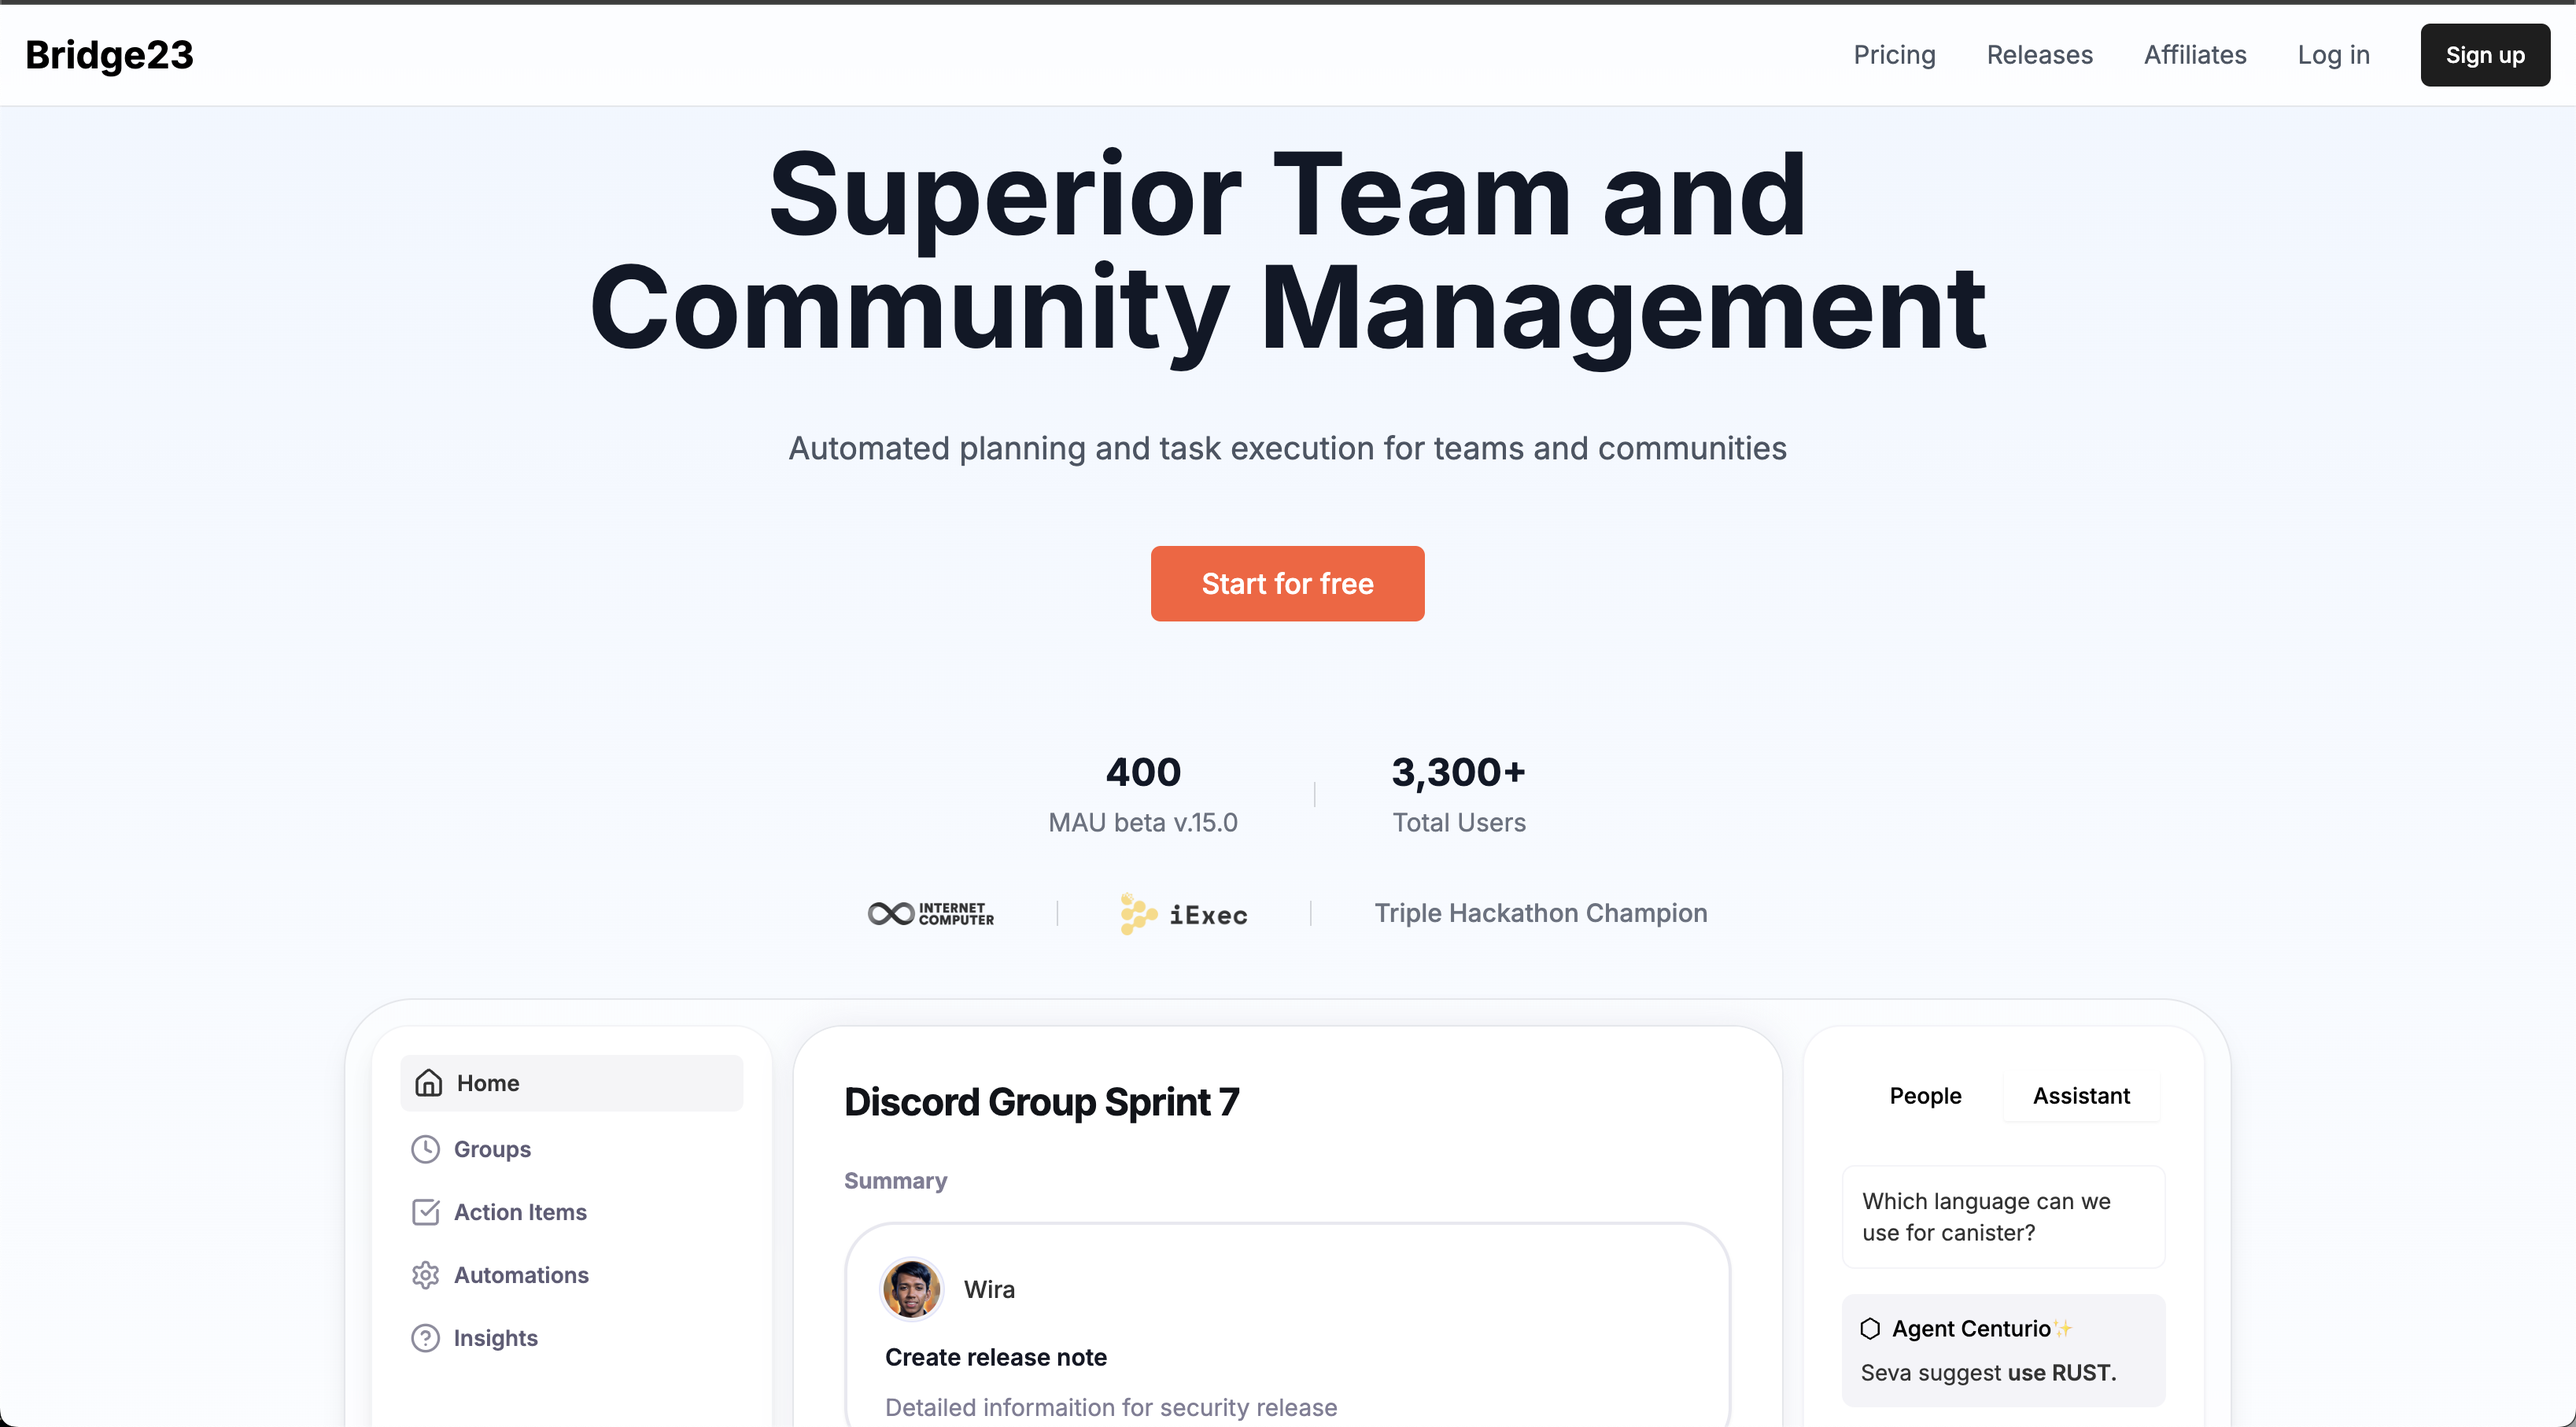
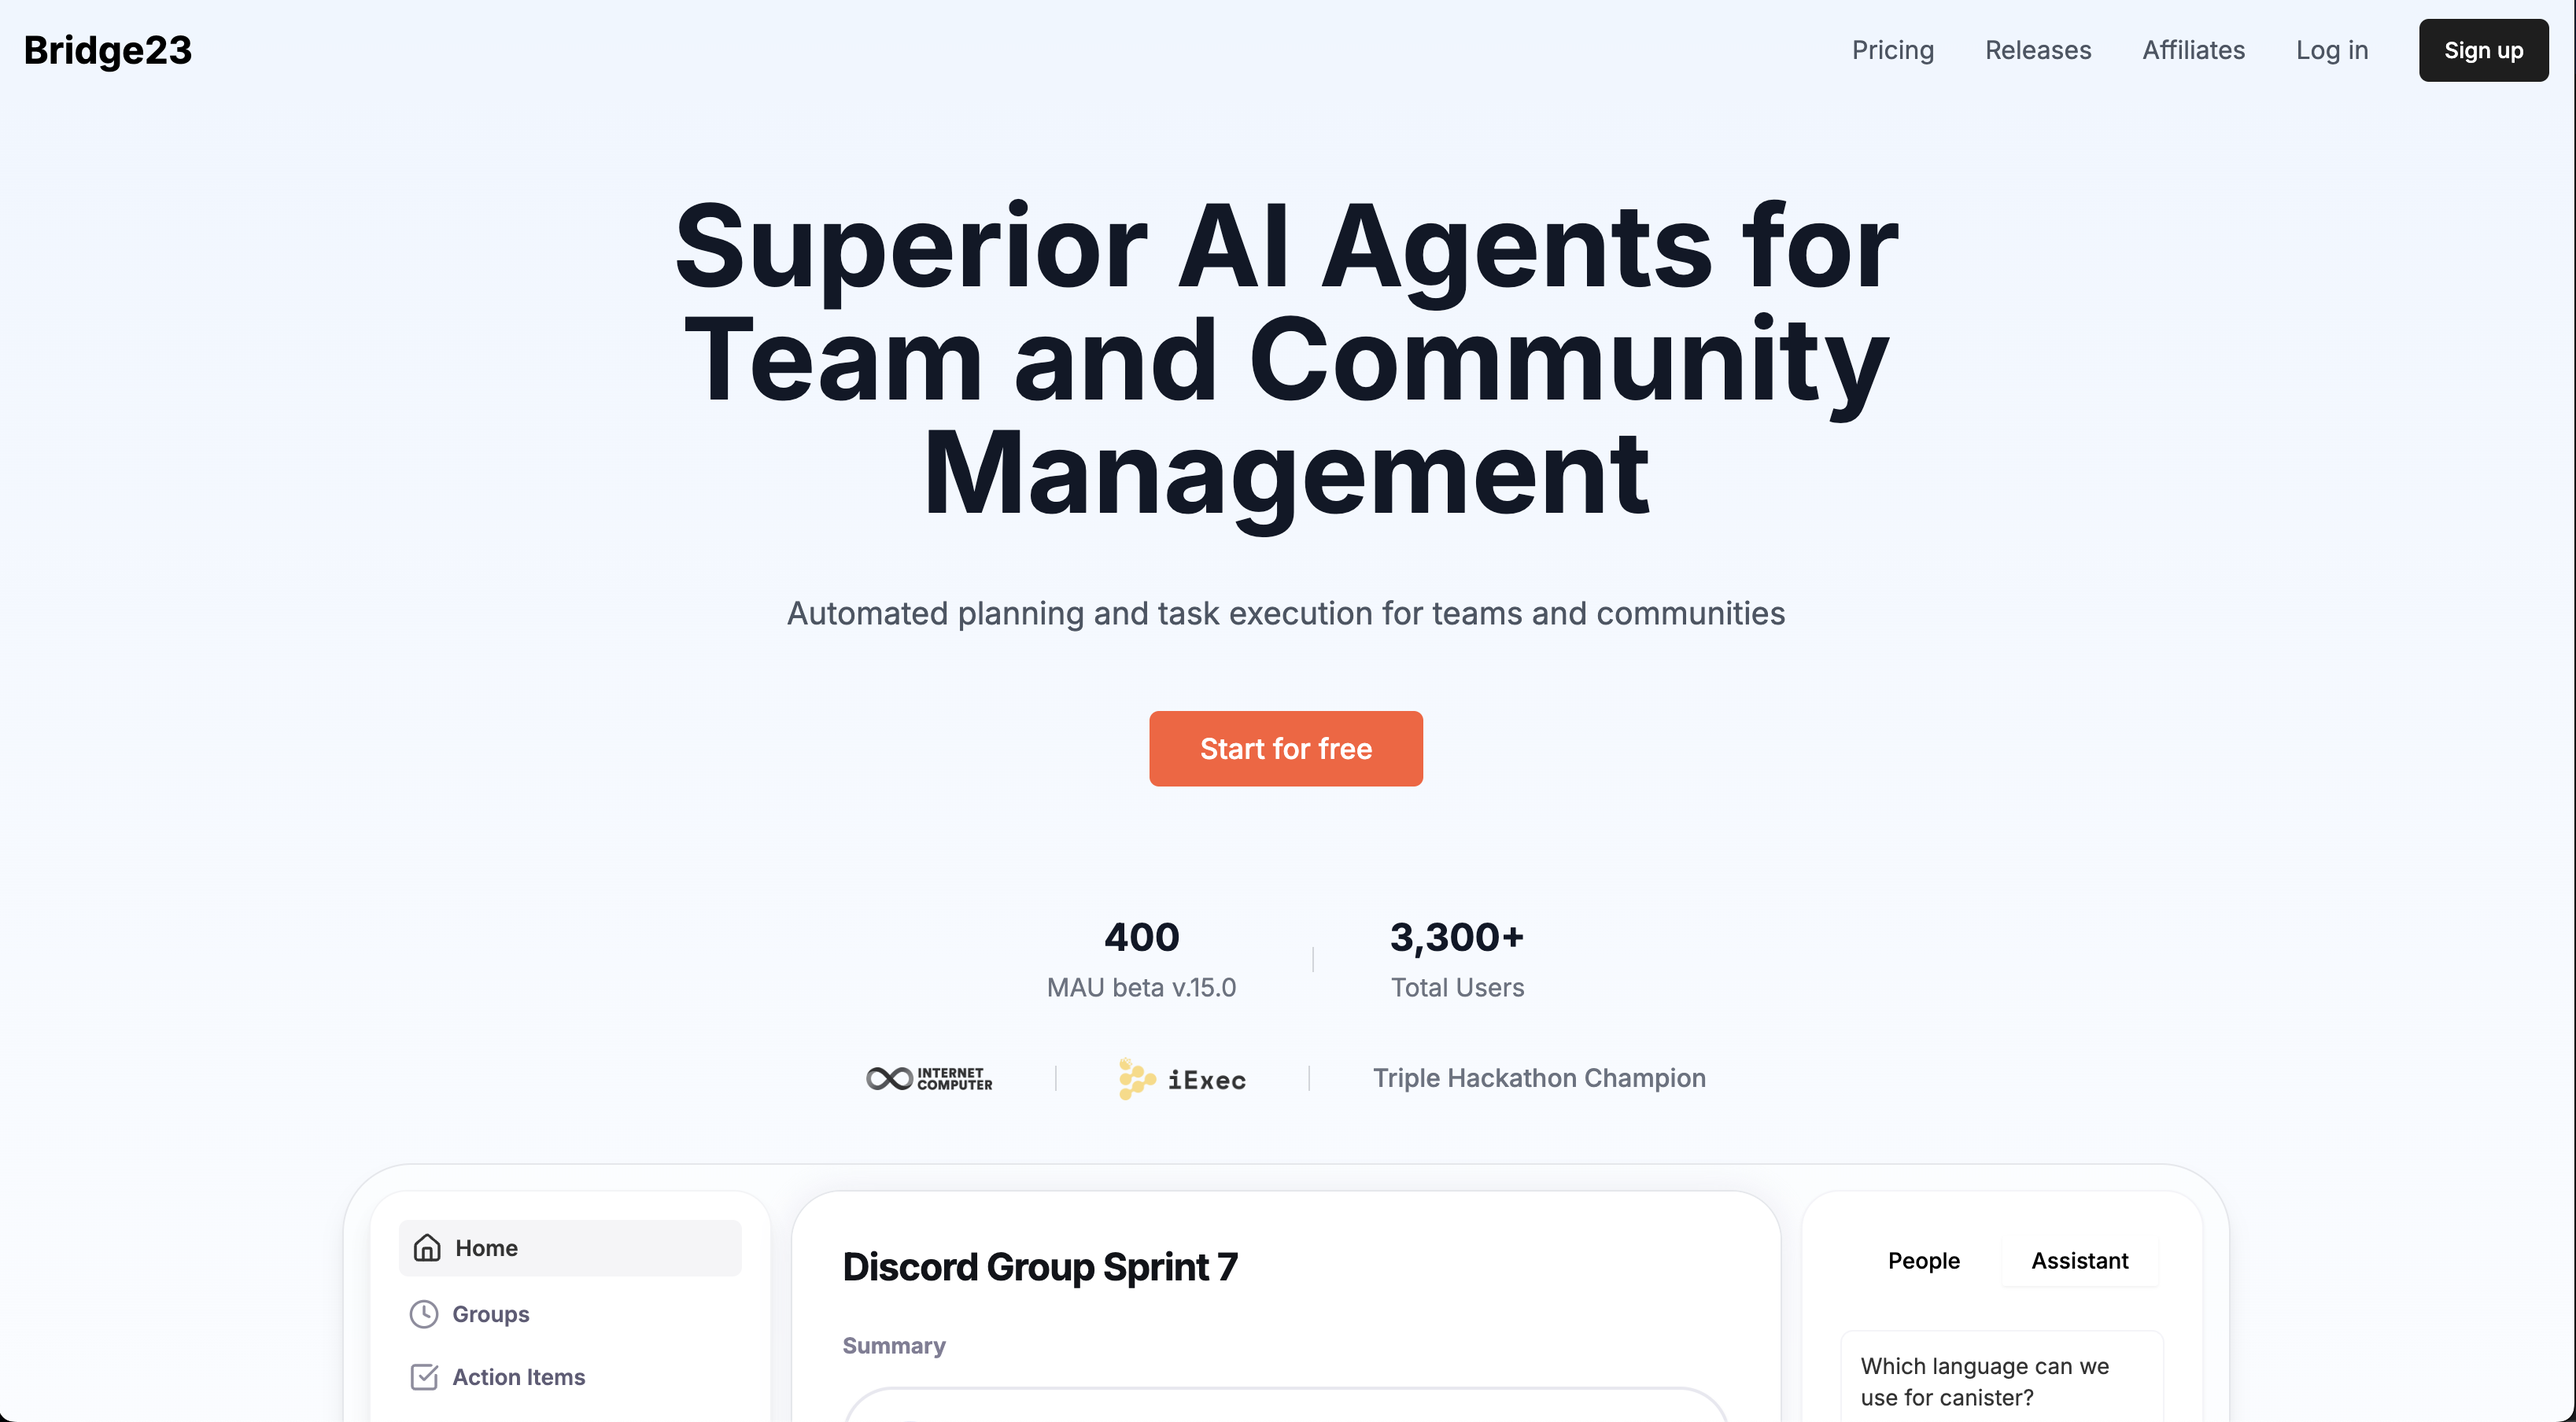
Updated Header

diff --git a/components/sections/hero/hero-header.tsx b/components/sections/hero/hero-header.tsx
@@ -8,7 +8,7 @@ export function HeroHeader() {
     <div className="py-2 md:py-2 lg:py-10">
       <div className="text-center mb-12 md:mb-16 lg:mb-20">
         <h1 className="text-3xl md:text-5xl lg:text-7xl font-bold text-gray-900 max-w-4xl mx-auto leading-tight mb-6 md:mb-8 lg:mb-10">
-            Superior Team and Community Management
+            Superior AI Agents for Team and Community Management
         </h1>
         <p className="text-lg md:text-xl text-gray-600 max-w-2xl mx-auto mb-8 md:mb-10 lg:mb-12">
             Automated planning and task execution for teams and communities
